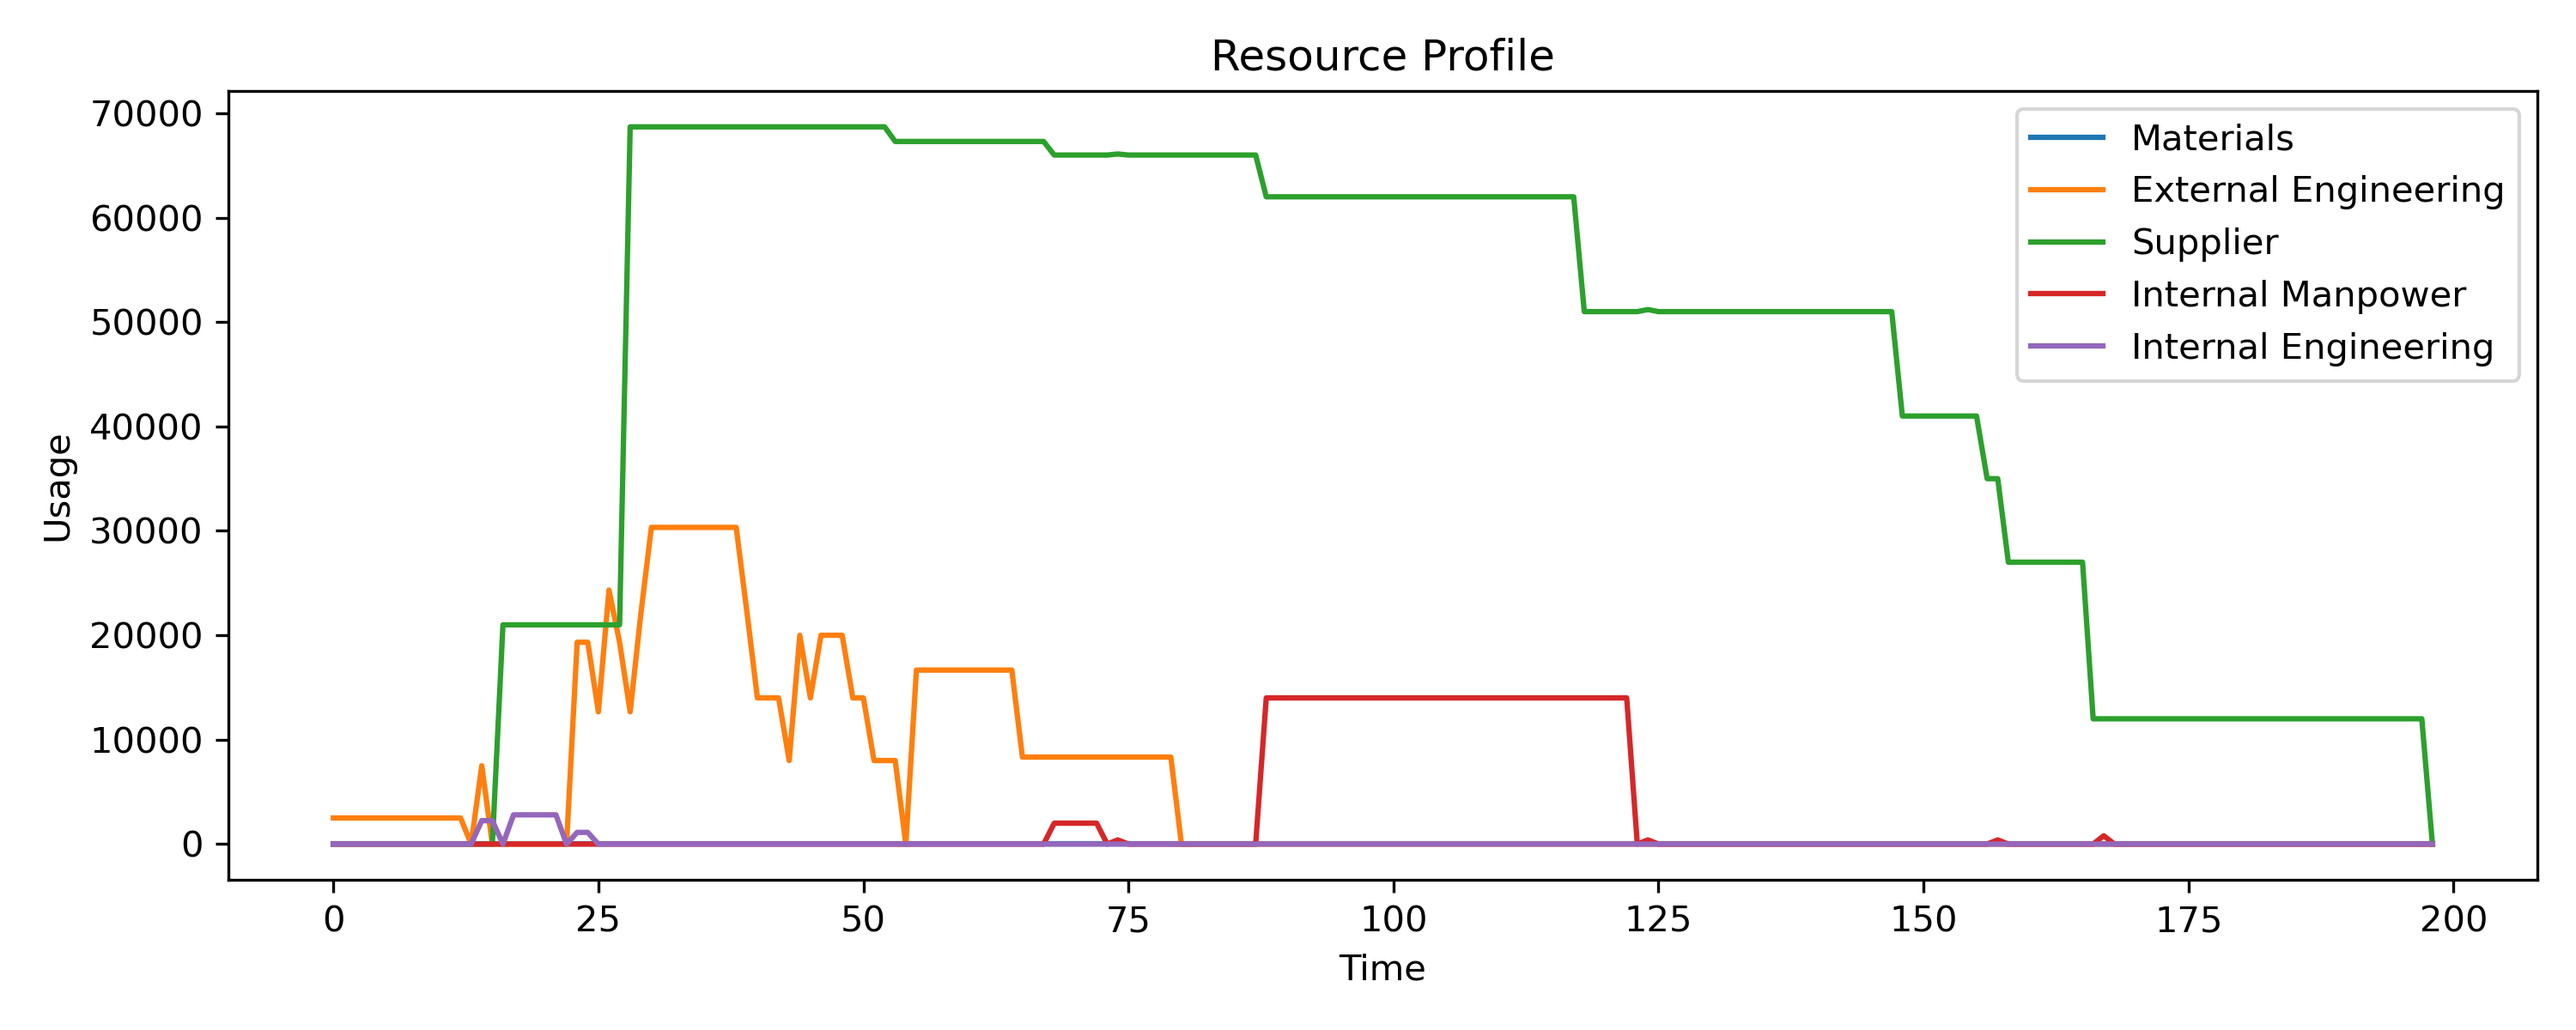
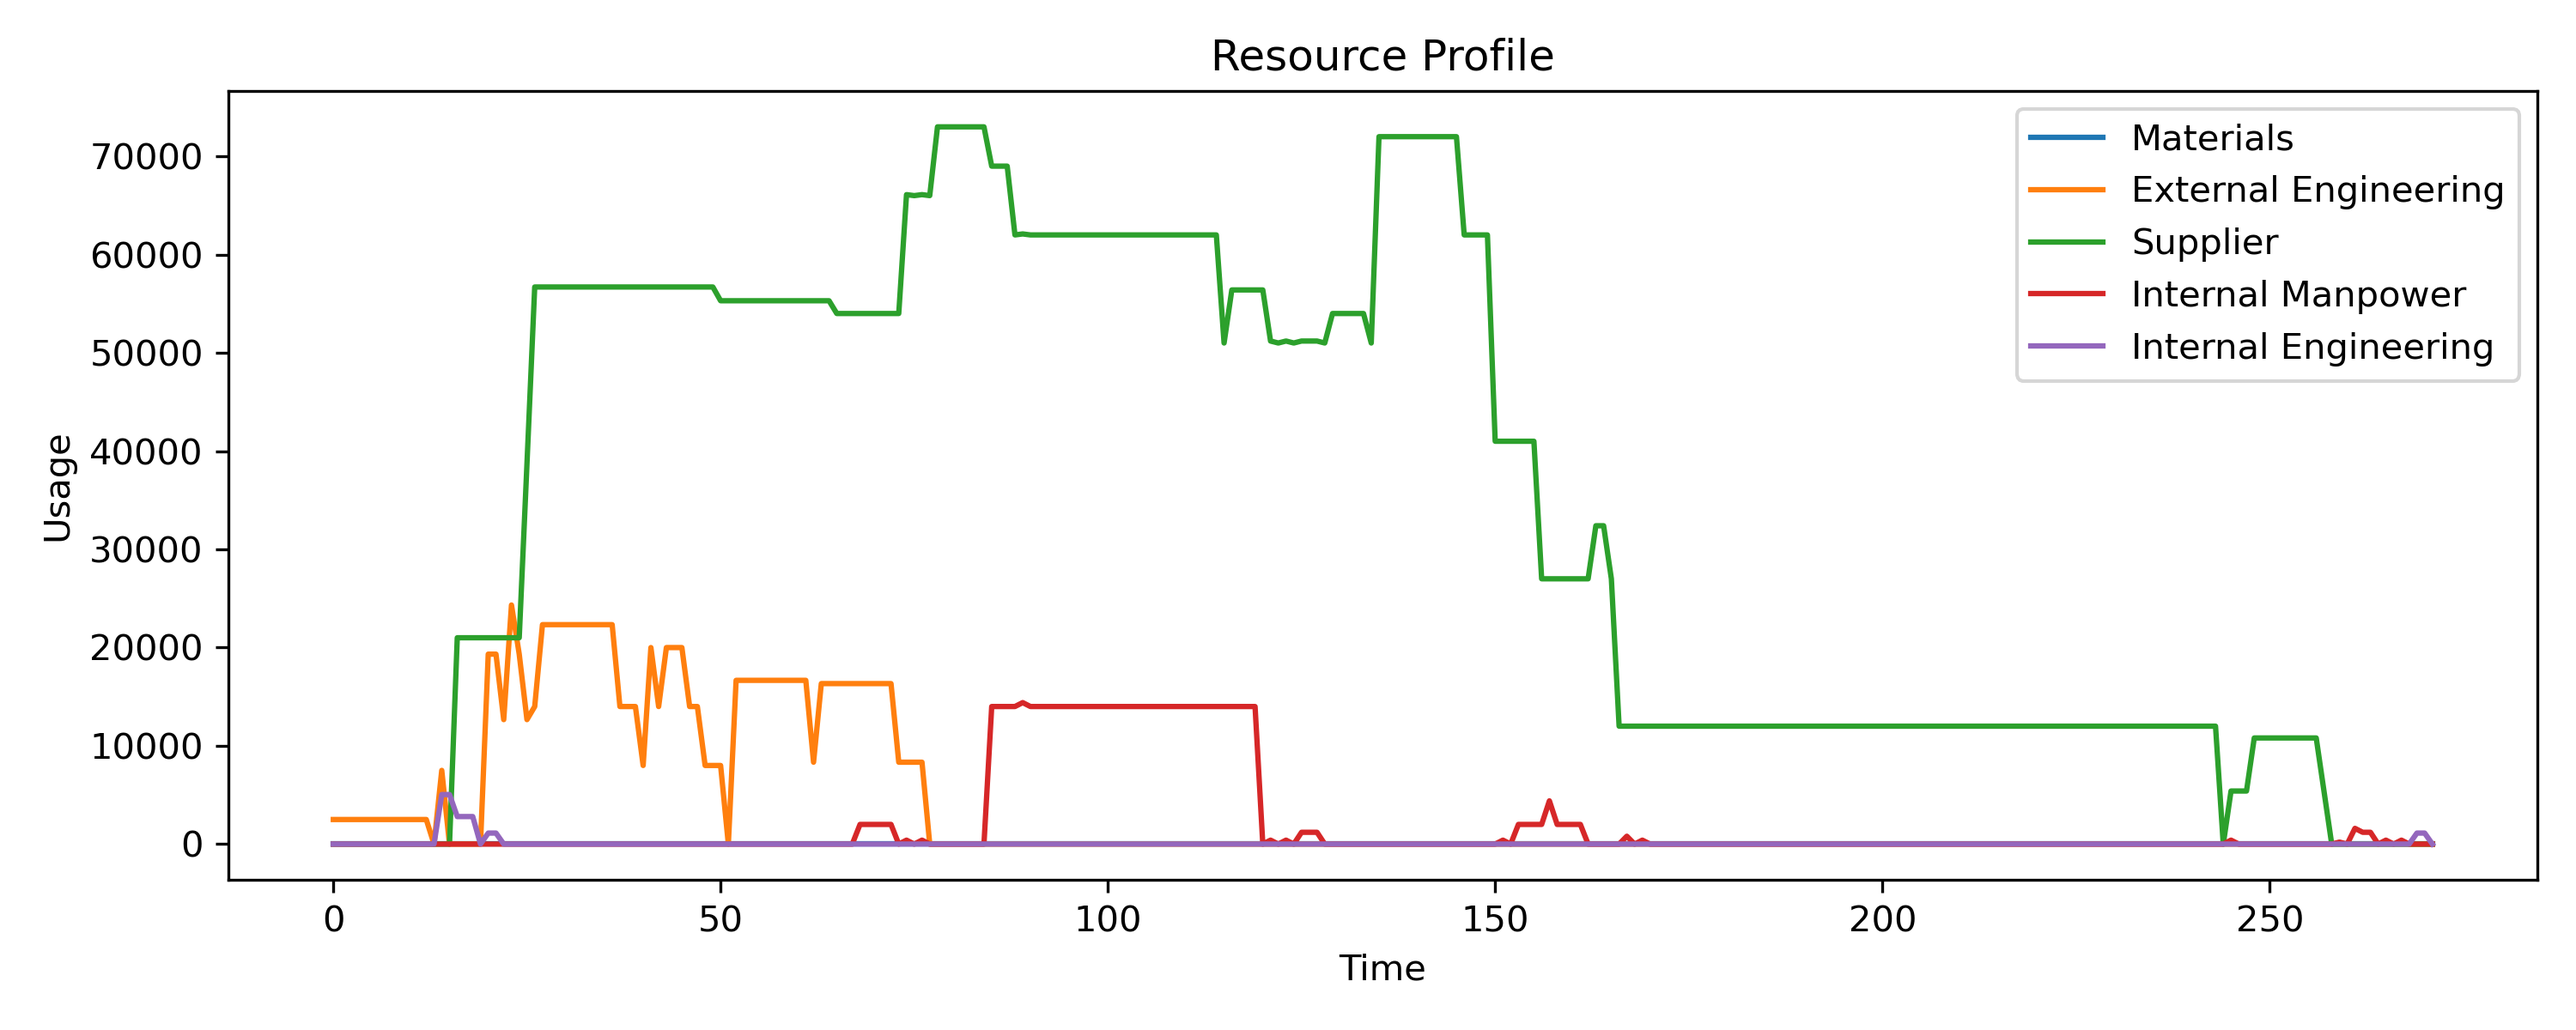
working

diff --git a/Project Managment/All_Integrated.py b/Project Managment/All_Integrated.py
@@ -126,7 +126,7 @@ def backward_pass(task_lookup, children):
         t = task_lookup[n]
         for p in t['parents']:
             pt = task_lookup[p]
-            pt['LF'] = min(pt['LF'], t['LS'])
+            pt['LF'] = min(pt['LF'], t['LS']-1)
             pt['LS'] = pt['LF'] - pt['duration']
             out_deg[p] -= 1
             if out_deg[p] == 0:
@@ -170,8 +170,8 @@ def gantt():
     row = 0
     for day in sorted(by_start):
         for t in by_start[day]:
-            w        = (t['EF'] - t['ES']) * X_SCALE
-            x_center = t['ES'] * X_SCALE + w/2
+            w        = (t['EF'] - t['ES'] + 1) * X_SCALE
+            x_center = (t['ES']) * X_SCALE + w/2
             y_center = -row * Y_SCALE
             dot.node(
                 t['name'],
@@ -208,14 +208,17 @@ def resource_profile():
     plt.savefig('resource_profile.png', dpi=300)
 
 def s_curve():
+    import numpy as np
     # Compute cumulative resource for each type
     cumulative_profile = {r: [0]*len(time_range) for r in res_types}
     for r in res_types:
         cumulative_profile[r] = [sum(profile[r][:i+1]) for i in range(len(profile[r]))]
+    tot = sum(np.array(cumulative_profile[r]) for r in res_types)
     # Plot S-Curve
     fig, ax = plt.subplots(figsize=(10,4))
     for r in res_types:
         ax.plot(time_range, cumulative_profile[r], label=r)
+    ax.plot(time_range, tot, label='Total', color='black', linestyle='--')
     ax.set_xlabel('Time')
     ax.set_ylabel('Cumulative Usage')
     ax.set_title('S-Curve')
